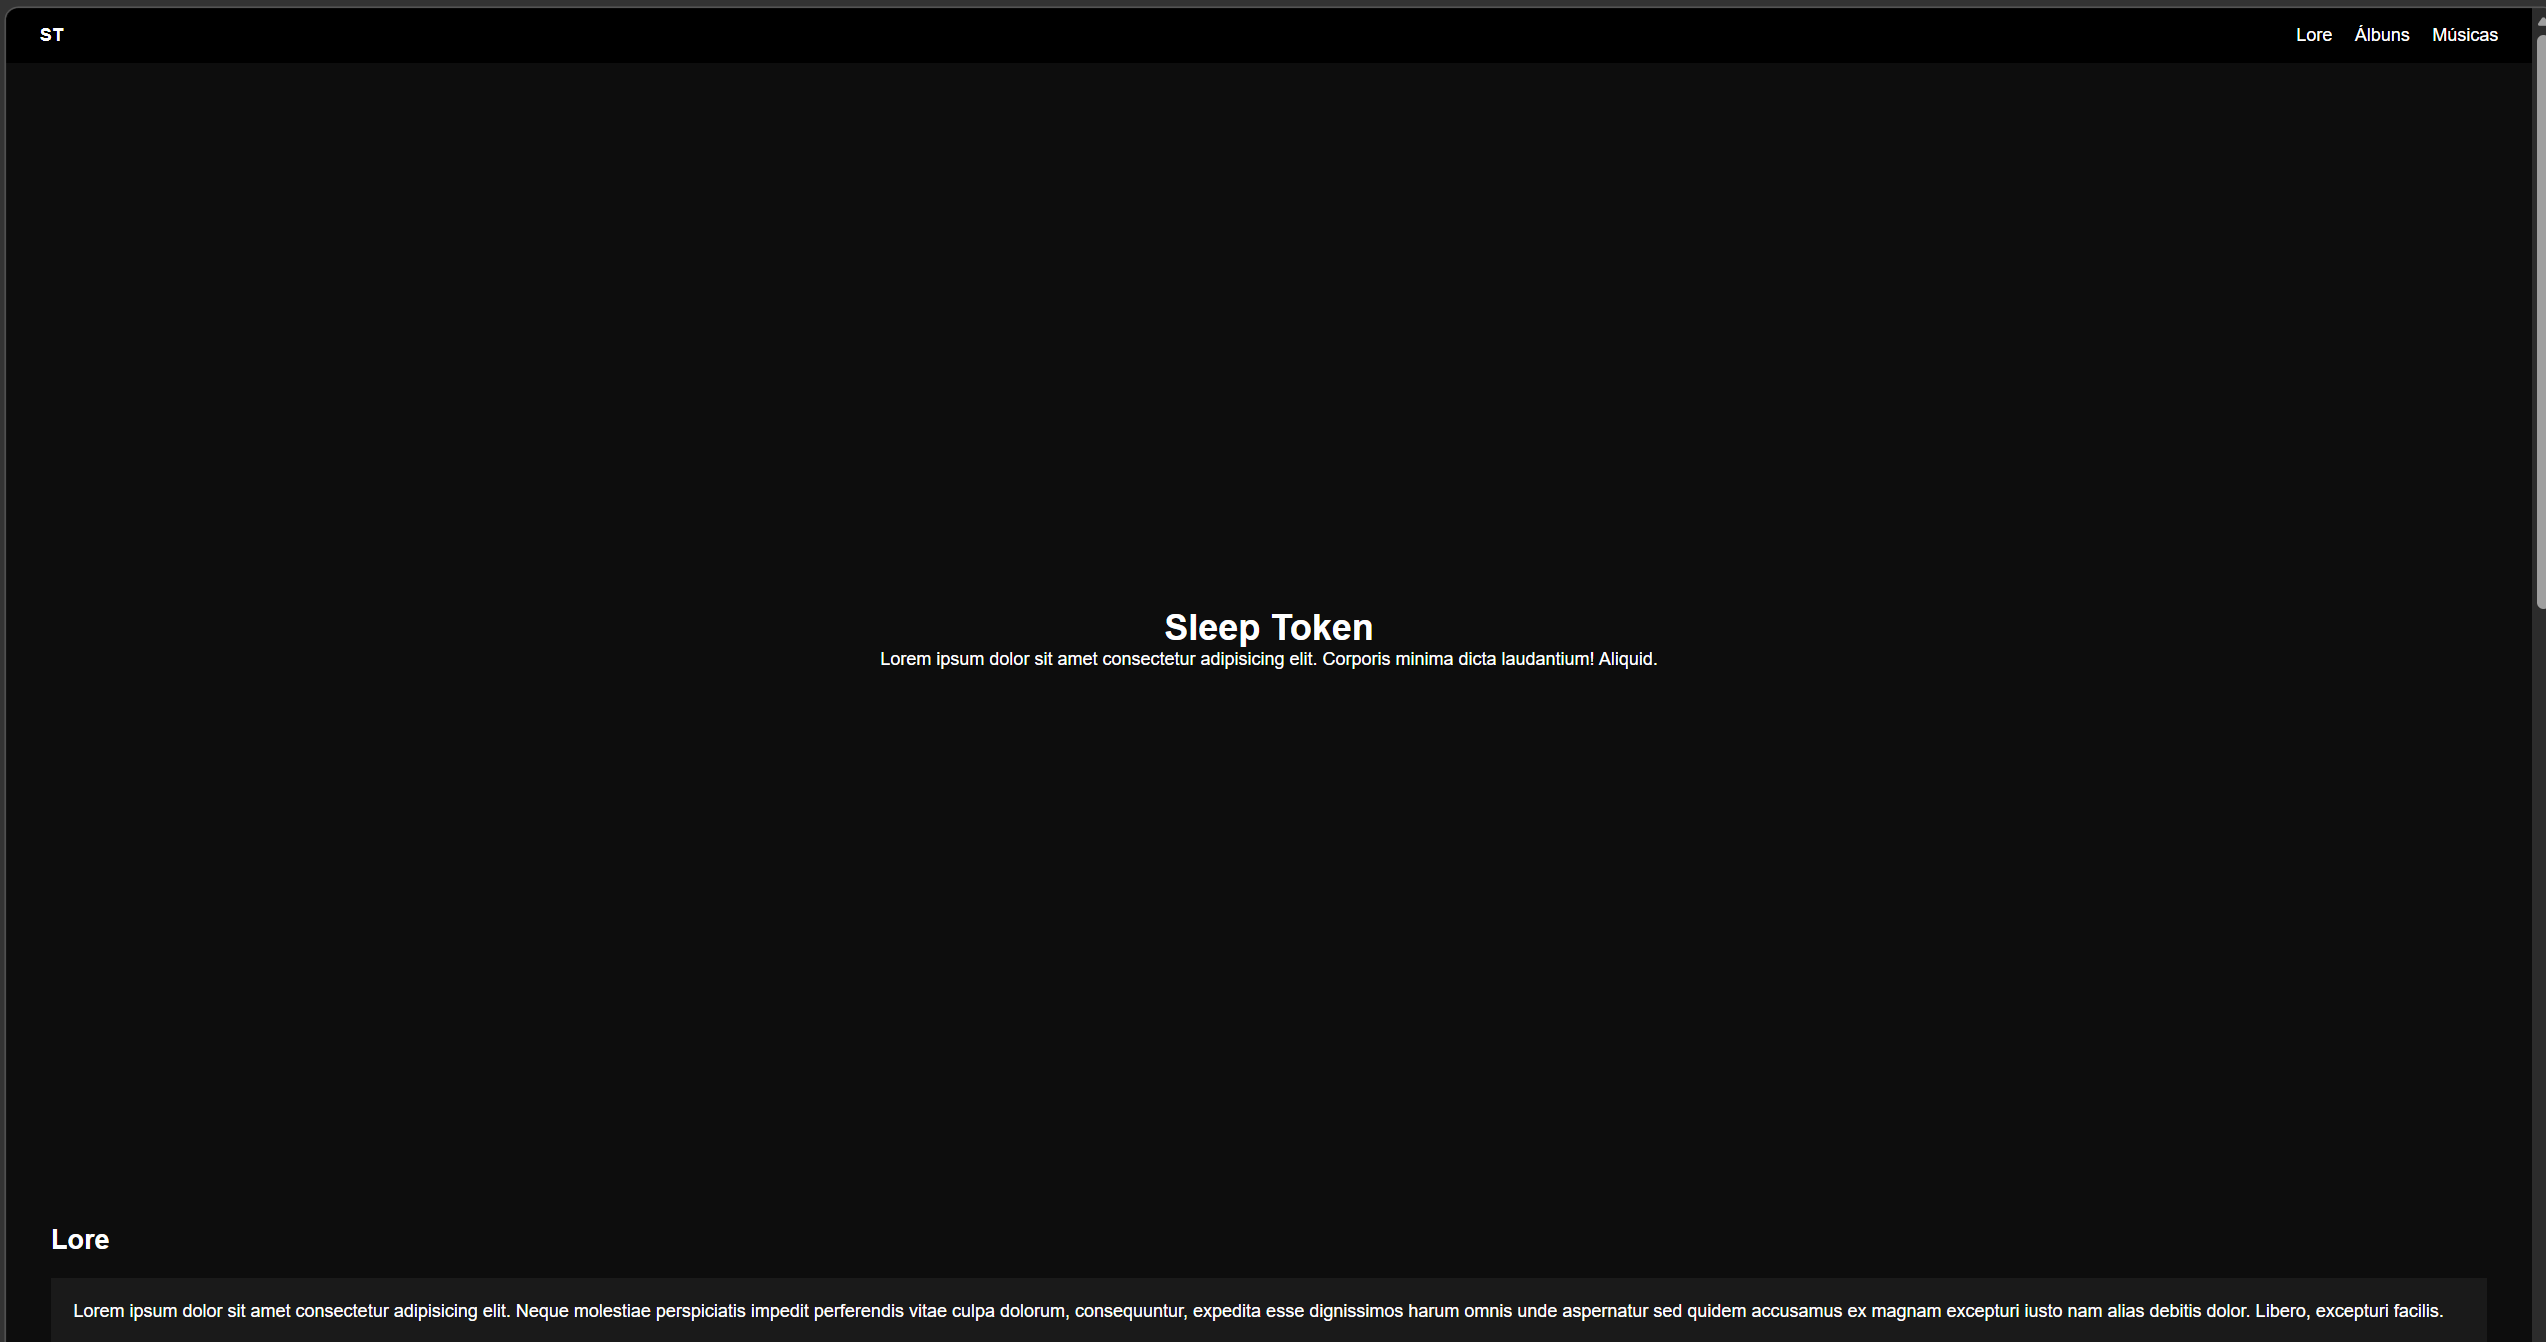
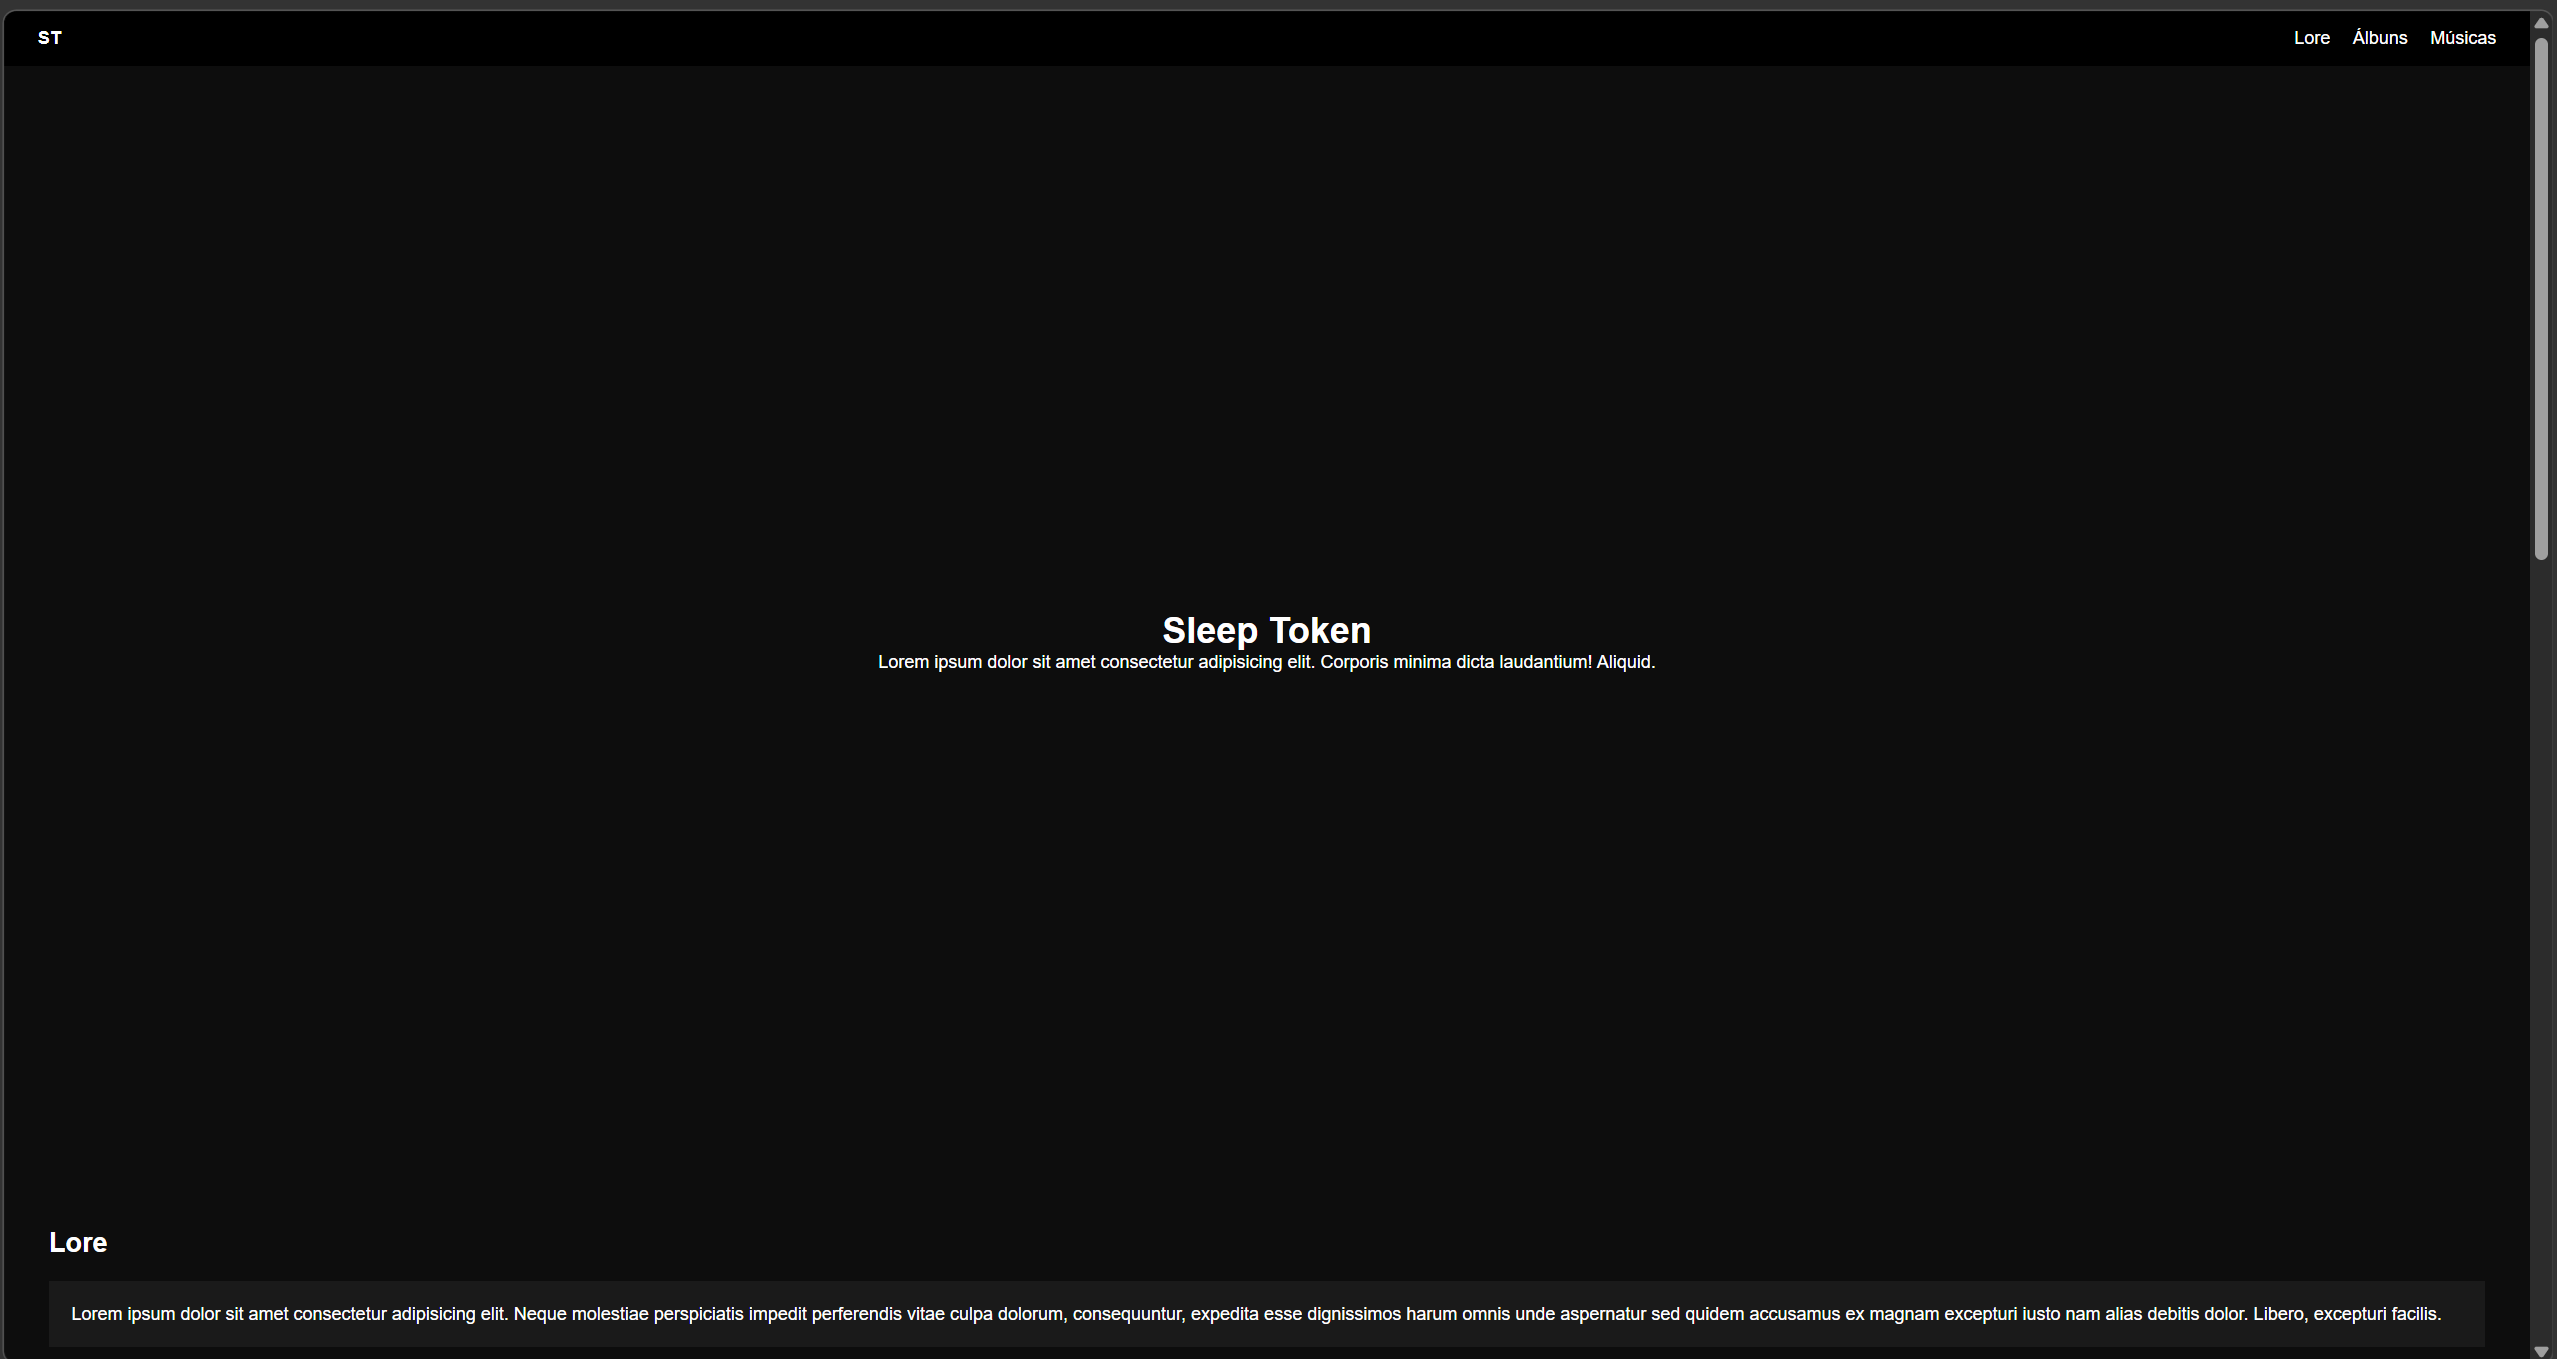
adição da seção da newsletter e prints da página atualizados

Changed region(s): [[0.0, 0.0, 1.0, 1.0], [0.3413, 0.4583, 0.6516, 0.5194], [0.0, 0.0, 0.031, 0.0306]]

diff --git a/public/style.css b/public/style.css
@@ -1,4 +1,3 @@
-/* RESET */
 * {
     margin: 0;
     padding: 0;
@@ -45,7 +44,7 @@ main {
     margin-top: 80px;
 }
 
-/* HERO */
+/* PAGINA INICIAL */
 .hero {
     height: 80vh;
     display: flex;
@@ -109,4 +108,42 @@ main {
     text-align: center;
     padding: 20px;
     background: black;
+}
+
+.newsletter {
+    padding: 60px 20px;
+    text-align: center;
+    background: #111;
+    margin-top: 40px;
+}
+
+.newsletter h2 {
+    margin-bottom: 10px;
+}
+
+.newsletter p {
+    margin-bottom: 20px;
+    color: #ccc;
+}
+
+.newsletter-form {
+    display: flex;
+    justify-content: center;
+    gap: 10px;
+    flex-wrap: wrap;
+}
+
+.newsletter-form input {
+    padding: 10px;
+    border: none;
+    outline: none;
+    width: 200px;
+}
+
+.newsletter-form button {
+    padding: 10px 20px;
+    background: #fff;
+    color: black;
+    border: none;
+    cursor: pointer;
 }

diff --git a/public/index.html b/public/index.html
@@ -22,7 +22,7 @@
 
 <main>
 
-    <!-- HERO -->
+    <!-- HOME -->
     <section class="hero">
         <h1>Sleep Token</h1>
         <p>Lorem ipsum dolor sit amet consectetur adipisicing elit. Corporis minima dicta laudantium! Aliquid.</p>
@@ -118,6 +118,17 @@
     </section>
 
 </main>
+
+<section class="newsletter">
+    <h2>Quer receber novidade e atualizações sobre a banda?</h2>
+    <p>Se inscreva no nosso newsletter</p>
+
+    <form class="newsletter-form">
+        <input type="text" placeholder="Seu nome" required>
+        <input type="email" placeholder="Seu e-mail" required>
+        <button type="submit">Inscrever</button>
+    </form>
+</section>
 
 <footer class="footer">
     <p>Uma homenagem à banda Sleep Token</p>
